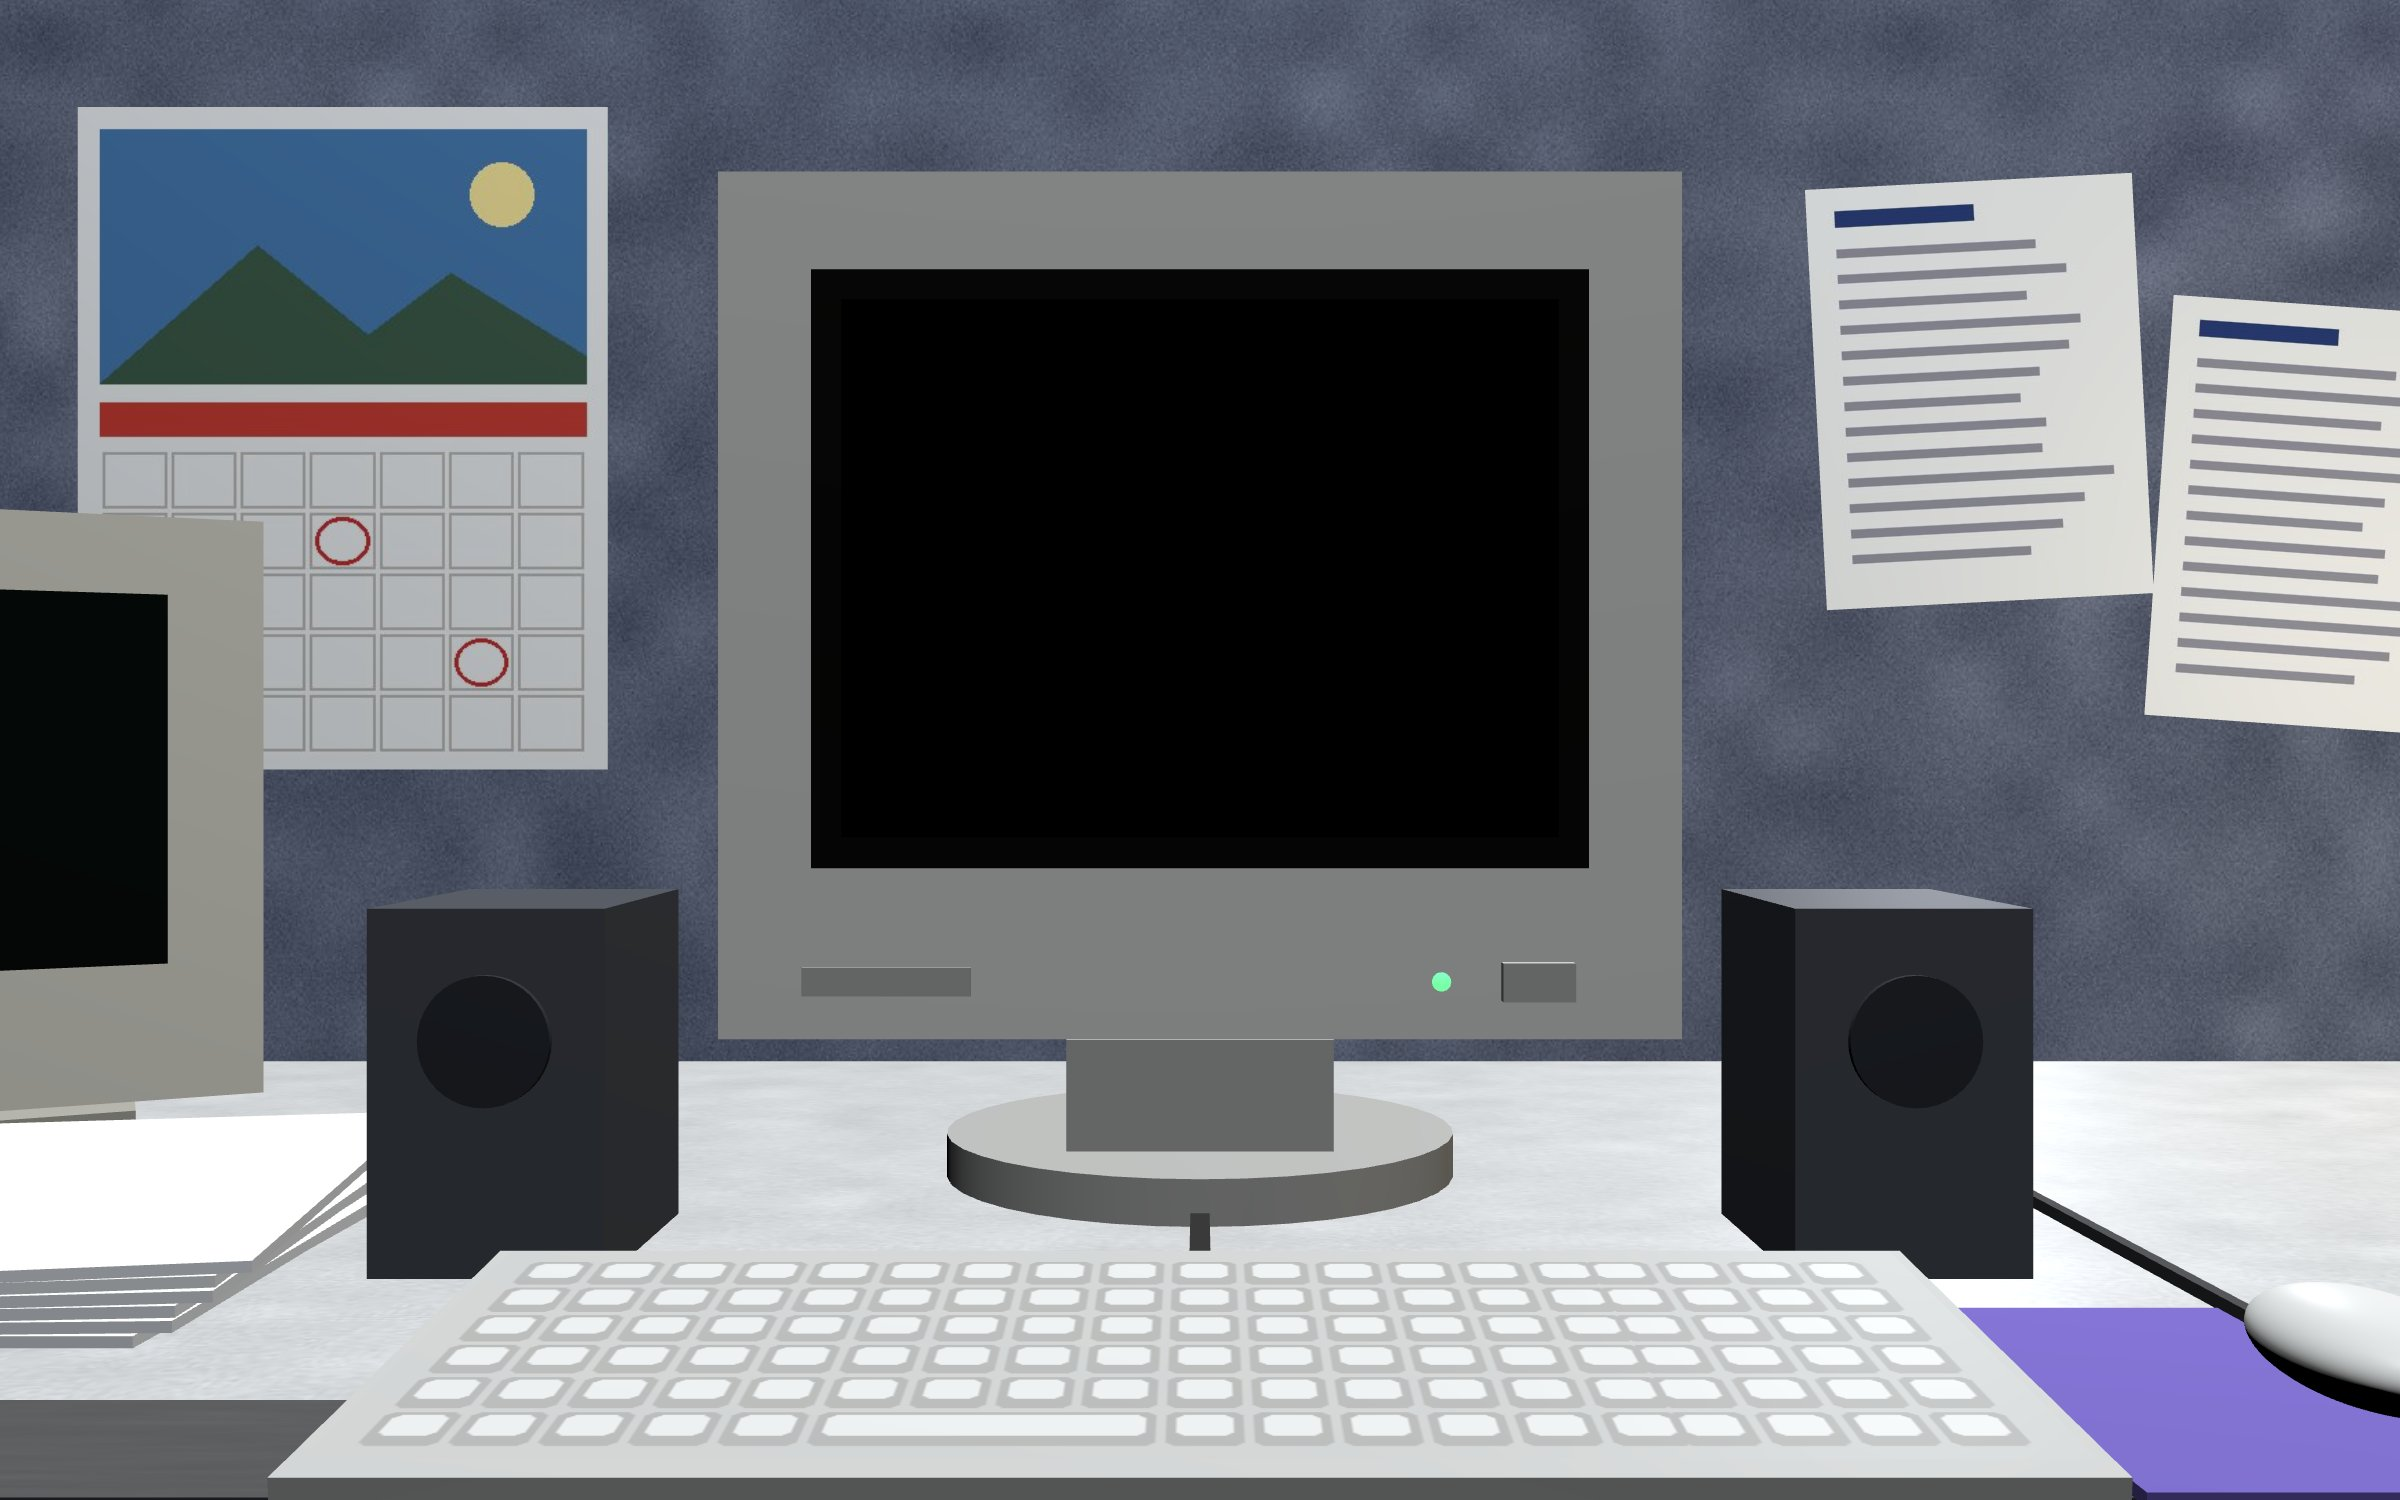
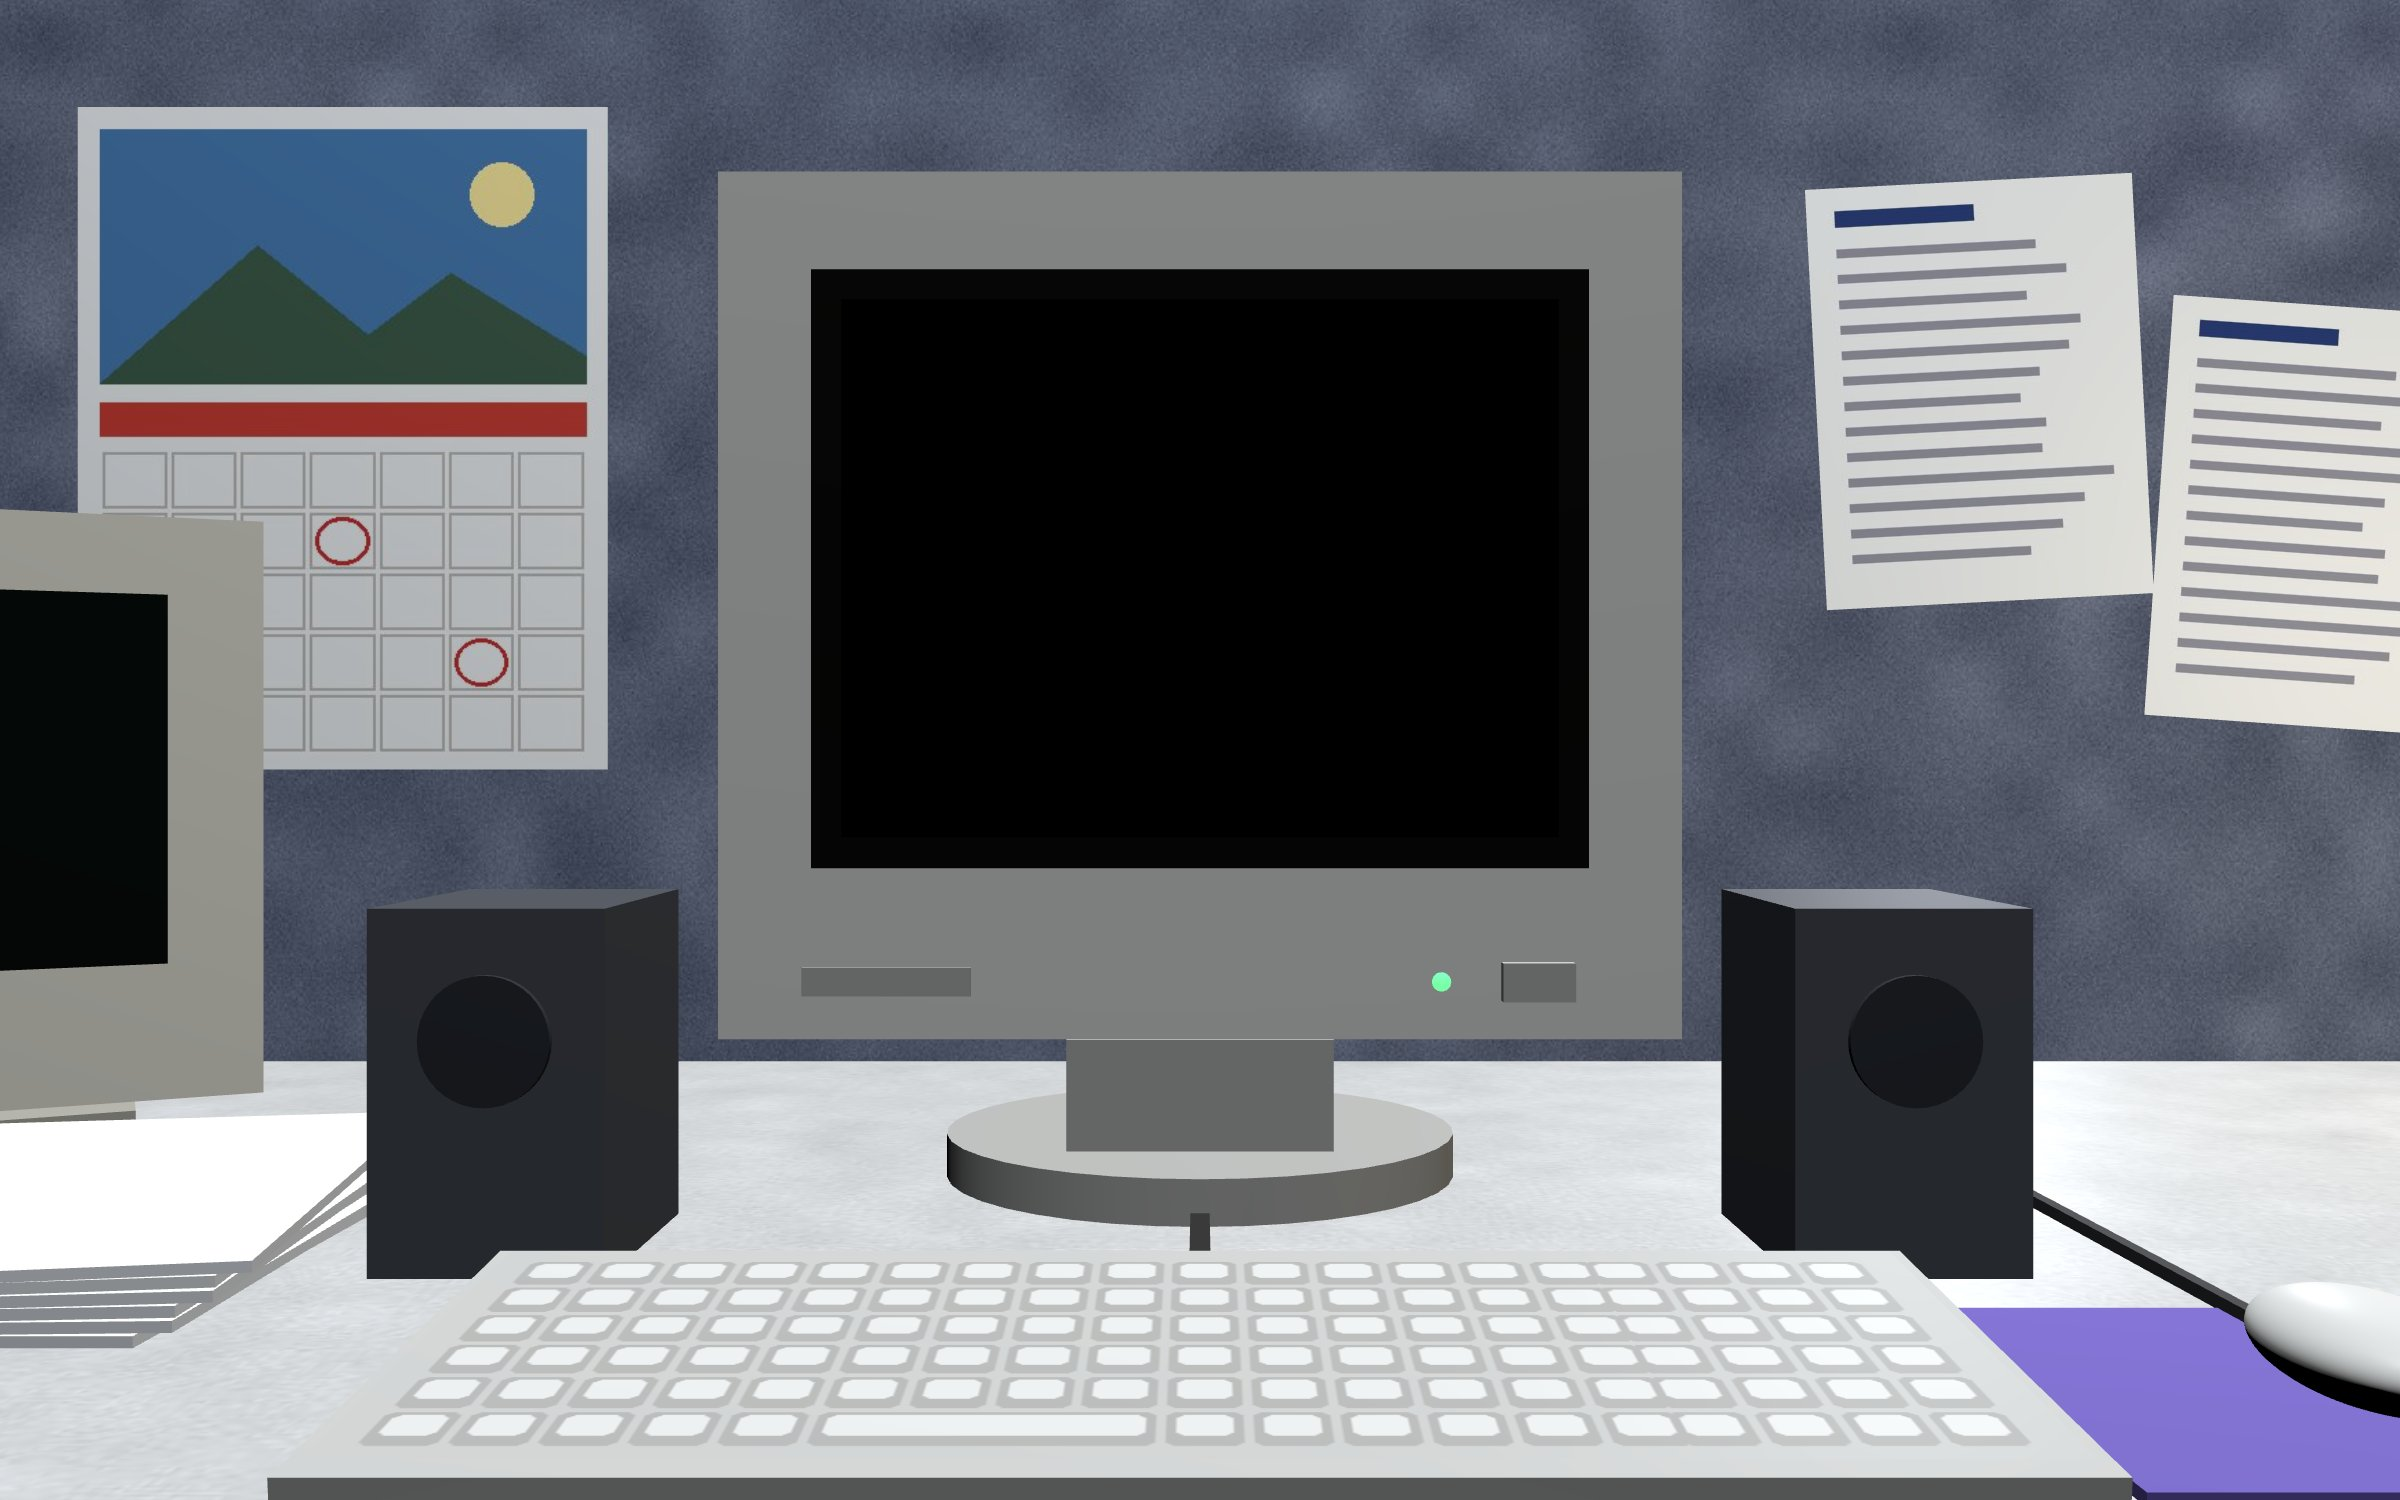
Office mode: deeper desks, so the keyboard and mouse sit on them (both apps)
The keyboard, mouse mat and mouse hung 5-12 cm over the front edge of both
desks. The desks now come further forward (86 and 90 cm deep), with the
drawers and legs moved to match, and the 2D pictures are re-rendered.

Claude-Session: https://claude.ai/code/session_01Fr9pEh2u4LXn8RbFiZ4f9X

Changed region(s): [[0.0, 0.92, 0.1562, 1.0]]

diff --git a/scripts/generate-office-scenes.py b/scripts/generate-office-scenes.py
@@ -435,12 +435,12 @@ def room_80s(out, rng, mon):
              emissive="#ffffff", shadows=False)
 
     # Walnut desk with two pedestals of drawers.
-    sc.box((0, DESK_Y - 2, -50), (150, 4, 76), "#ffffff", texture=t_desk, repeat=(2, 1), roughness=0.45)
+    sc.box((0, DESK_Y - 2, -45), (150, 4, 86), "#ffffff", texture=t_desk, repeat=(2, 1), roughness=0.45)
     for x in (-56, 56):
-        sc.box((x, (DESK_Y - 4) / 2, -50), (36, DESK_Y - 4, 70), "#ffffff", texture=t_desk, roughness=0.5)
+        sc.box((x, (DESK_Y - 4) / 2, -45), (36, DESK_Y - 4, 78), "#ffffff", texture=t_desk, roughness=0.5)
         for k in range(3):
-            sc.box((x, 16 + k * 19, -14.8), (32, 16, 1), "#5c371e", roughness=0.5)
-            sc.box((x, 20 + k * 19, -14), (10, 1.4, 1.4), "#c8b27a", metalness=0.8, roughness=0.3)
+            sc.box((x, 16 + k * 19, -5.8), (32, 16, 1), "#5c371e", roughness=0.5)
+            sc.box((x, 20 + k * 19, -5), (10, 1.4, 1.4), "#c8b27a", metalness=0.8, roughness=0.3)
 
     add_monitor(sc, mon, "#d6ccb2", "#aaa088")
     add_keyboard(sc, "#c8bea4", t_keys)
@@ -540,10 +540,10 @@ def room_90s(out, rng, mon):
     partition((0, 75, -280), 190, 0)
 
     # Laminate desk on metal legs, and a PC tower on the floor.
-    sc.box((0, DESK_Y - 1.5, -55), (186, 3, 70), "#ffffff", texture=t_desk, repeat=(2, 1), roughness=0.4)
-    sc.box((0, DESK_Y - 4, -20.5), (186, 2, 1), "#3c3c40", roughness=0.5)
+    sc.box((0, DESK_Y - 1.5, -45), (186, 3, 90), "#ffffff", texture=t_desk, repeat=(2, 1), roughness=0.4)
+    sc.box((0, DESK_Y - 4, -0.5), (186, 2, 1), "#3c3c40", roughness=0.5)
     for x in (-88, 88):
-        sc.box((x, (DESK_Y - 3) / 2, -55), (4, DESK_Y - 3, 64), "#5a5c62", metalness=0.6, roughness=0.4)
+        sc.box((x, (DESK_Y - 3) / 2, -45), (4, DESK_Y - 3, 84), "#5a5c62", metalness=0.6, roughness=0.4)
     sc.box((60, 22, -60), (20, 44, 45), "#cbc7b8", roughness=0.5)
     sc.box((60, 36, -37.4), (14, 3, 0.4), "#3a3a3c")
     sc.box((60, 28, -37.4), (10, 1.5, 0.4), "#3a3a3c")
